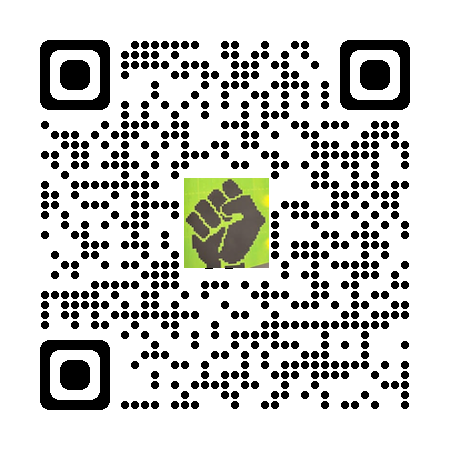
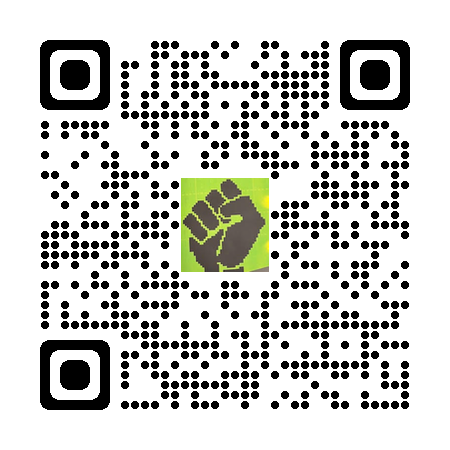
Kayley Chery

diff --git a/src/demo/mo-videoplayer/dateFacts.js b/src/demo/mo-videoplayer/dateFacts.js
@@ -5,21 +5,24 @@ const dateFacts = {
     videoKey: '-UtKxghWlvY',
     title: 'NationTime - edit by Ali Santana',
     description: 'NationTime - edit by Ali Santana',
-    // thumbnail: 'https://i.ytimg.com/vi/5wfrJKOntTE/maxresdefault.jpg',
     index: 0,
   },
   '0102': {
     videoKey: 'kinLtCLHYvo',
     title: 'Welcome To My House by Fils D Frank',
     description: 'Welcome To My House by Fils D Frank',
-    // thumbnail: 'https://i.ytimg.com/vi/VZTSYcFTNSA/maxresdefault.jpg',
     index: 1,
   },
   '0103': {
     videoKey: '8HfVf69nUX0',
     title: 'Community: Rhythm / Movement / Joy (2022)',
     description: 'Community: Rhythm / Movement / Joy (2022)',
-    // thumbnail: 'https://i.ytimg.com/vi/5wfrJKOntTE/maxresdefault.jpg',
-    index: 1,
+    index: 2,
+  },
+  '0104': {
+    videoKey: 'PFVzirnGhE0',
+    title: "Don't Count Me Out by Kayley Chery (2023)",
+    description: "Don't Count Me Out by Kayley Chery (2023)",
+    index: 3,
   },
 };

diff --git a/src/qrcode/mo-videoplayer.html b/src/qrcode/mo-videoplayer.html
@@ -8,13 +8,18 @@
   <body>
     <div>
       <h1 id="id_title">Welcome to mo-videoplayer ?v=80</h1>
-      By entering this site you agree to have anonymous user data stored
+      By entering this site you agree to have anonymous user data stored <br />
       <h2>
         <a href="../demo/mo-videoplayer/index.html?v=80" id="id_link">
           <!-- -->
-          Enter NationTime playlist
+          Enter mo-videoplayer playlist
         </a>
       </h2>
+      video montage by Ali Santana and students of his "Alter Ego" class. <br />
+      An experimental interactive multi-screen experience <br />
+      <br />
+      by <a href="https://jht1493.net" target="jht">John Henry Thompson</a> <br />
+      powered by <a href="https://github.com/molab-itp/p5moLibrary" target="moLibrary"> p5moLibrary</a>
     </div>
 
     <script>

diff --git a/src/README.md b/src/README.md
@@ -49,9 +49,9 @@ demos using p5moLibrary internally. plan is to move them to p5moExamples
 
 - garage play list using mo-videplayer
   - [demo/mo-videoplayer s1](demo/mo-videoplayer?v=80&group=s1&qrcode=mo-videoplayer-qrcode-1.png)
-    [[remote](demo/mo-videoplayer?v=80&group=s1)]
+    [[remote](qrcode/mo-videoplayer.html?v=80&group=s1)]
   - [demo/mo-videoplayer s2](demo/mo-videoplayer?v=80&group=s2&qrcode=mo-videoplayer-qrcode-2.png)
-    [[remote](demo/mo-videoplayer?v=80&group=s2)]
+    [[remote](qrcode/mo-videoplayer.html?v=80&group=s2)]
 
 ## NatimeTime play list
 
